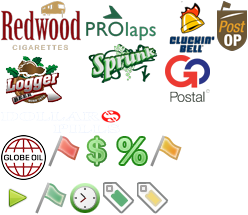
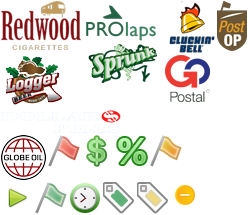
refactored old code, fixed open menu issue, added styling while on job

Changed region(s): [[0.7056, 0.8372, 0.7903, 0.9767]]

diff --git a/nui/local.html b/nui/local.html
@@ -1,0 +1,112 @@
+<html ng-app="app" ng-controller="mainController as main" ng-cloak>
+    <head>
+        <script src="https://code.jquery.com/jquery-2.2.4.min.js" integrity="sha256-BbhdlvQf/xTY9gja0Dq3HiwQF8LaCRTXxZKRutelT44=" crossorigin="anonymous"></script>
+        <script
+          src="https://code.jquery.com/jquery-3.3.1.js"
+          integrity="sha256-2Kok7MbOyxpgUVvAk/HJ2jigOSYS2auK4Pfzbm7uH60="
+          crossorigin="anonymous"></script>
+        <!-- <script src="nui://game/ui/jquery.js" type="text/javascript"></script> -->
+        <script src="./assets/js/angular.min.js" type="text/javascript"></script>
+        <script src="./assets/js/script.js?v=1.8" type="text/javascript"></script>
+        <link href="./assets/css/foundation.min.css" rel="stylesheet" type="text/css" />
+        <link href="./assets/css/style.css" rel="stylesheet" type="text/css" />
+        <meta http-equiv="content-type" content="text/html; charset=UTF-8">
+    </head>
+    <body style="background: transparent;">
+        <div class="dialog">
+            <div class="container">
+                <div class="menu">
+                    <h1>Freight Mobile</h1>
+                    <ul class="nav">
+                        <li ng-repeat="section in sections" ng-class="{'active': currentSection == $index}" ng-click="changeView($index, 0)">{{ section }}</li>
+                    </ul>
+                </div>
+                <div class="area">
+                    <div ng-show="currentSection == 0">
+                        <div class="row item collapse">
+                            <div class="large-12 columns">
+                                <div class="info">
+                                    <div class="trailer">
+                                        <div class="trip">
+                                            <span class="trailerType"><span class="orange">A place</span></span>
+                                            <span class="destination">From here ↝ To there</span>
+                                        </div>
+                                        <div class="icon logo postop"></div>
+                                    </div>
+                                    <div class="offer">
+                                        <div class="text">
+                                            <span class="expected">Weight: <b>12,235 lb</b></span><br />
+                                            <span class="expires">About a mile away</span>
+                                        </div>
+                                        <div class="icon play" aria-hidden="true" ng-click="startJob(job.id)"></div>
+                                        <div class="offerAmount"><span class="orange" id="payout">$3,564</span><br />$754/mi</div>
+                                    </div>
+                                </div>
+                            </div>
+                        </div>
+                        <div class="row item collapse">
+                            <div class="large-12 columns">
+                                <div class="info">
+                                    <div class="trailer">
+                                        <div class="trip">
+                                            <span class="trailerType"><span class="orange">A place</span></span>
+                                            <span class="destination">From here ↝ To there</span>
+                                        </div>
+                                        <div class="icon logo postop"></div>
+                                    </div>
+                                    <div class="offer">
+                                        <div class="text">
+                                            <span class="expected">Weight: <b>12,235 lb</b></span><br />
+                                            <span class="expires">About a mile away</span>
+                                        </div>
+                                        <div class="icon warning" aria-hidden="true" ng-click="startJob(job.id)"><span class="tooltip">You're already on a job</span></div>
+                                        <div class="offerAmount"><span class="orange" id="payout">$3,564</span><br />$754/mi</div>
+                                    </div>
+                                </div>
+                            </div>
+                        </div>
+                        <div class="row item collapse">
+                            <div class="large-12 columns">
+                                <div class="info">
+                                    <div class="trailer">
+                                        <div class="trip">
+                                            <span class="trailerType"><span class="orange">A place</span></span>
+                                            <span class="destination">From here ↝ To there</span>
+                                        </div>
+                                        <div class="icon logo postop"></div>
+                                    </div>
+                                    <div class="offer">
+                                        <div class="text">
+                                            <span class="expected">Weight: <b>12,235 lb</b></span><br />
+                                            <span class="expires">About a mile away</span>
+                                        </div>
+                                        <div class="icon warning" aria-hidden="true" ng-click="startJob(job.id)"></div>
+                                        <div class="offerAmount"><span class="orange" id="payout">$3,564</span><br />$754/mi</div>
+                                    </div>
+                                </div>
+                            </div>
+                        </div>
+                        <div class="paging">
+                            <ul>
+                                <li ng-repeat="i in [] | range: getJobsPageCount()" ng-class="{'active': currentPage == i}" ng-click="changeView(currentSection, i)">&bull;</li>
+                            </ul>
+                        </div>
+                    </div>
+                    <div ng-show="currentSection == 1">
+                        Deliveries
+                    </div>
+                    <div ng-show="currentSection == 2">
+                        Auctions Coming Soon
+                    </div>
+                </div>
+                <div class="bottom-nav">
+                    <ul>
+                        <li><div ng-click="back()" ng-class="{'disabled': noHistory}" class="navcon arrow"></div></li>
+                        <li><div ng-click="home()" ng-class="{'disabled': currentSection == 0}" class="navcon circle"></div></li>
+                        <li><div ng-click="close()" class="navcon box"></div></li>
+                    </ul>
+                </div>
+            </div>
+        </div>
+    </body>
+</html>

diff --git a/nui/assets/css/style.css b/nui/assets/css/style.css
@@ -76,7 +76,7 @@ h1 {
 }
 
 .nav {
-    font-size: 1.2em;
+    font-size: 1.265em;
 }
 
 .nav li {
@@ -208,9 +208,51 @@ h1 {
     background: url('../images/nav.png');
 }
 
+.tooltip {
+    position: relative;
+    display: block;
+    opacity: 0;
+    top: -71px;
+    left: -72px;
+    padding: 7px 10px;
+    width: 111px;
+    background-color: #1e1e1e;
+    font-size: 0.85em;
+    text-align: center;
+    transition: all 0.35s ease;
+}
+
+.tooltip:after {
+    top: 100%;
+    left: 81%;
+    border: solid transparent;
+    content: " ";
+    height: 0;
+    width: 0;
+    position: absolute;
+    pointer-events: none;
+    border-color: rgba(136, 183, 213, 0);
+    border-top-color: #1e1e1e;
+    border-width: 15px;
+    margin-left: -17px;
+}
+
+.warning:hover .tooltip {
+    opacity: 1;
+}
+
+.arrow, .circle {
+    transition: all 0.4s ease;
+}
+
+.play, .warning {
+    float: right;
+    margin-top: 10px;
+    margin-right: 5px;
+}
+
 .arrow {
     background-position: -1px -1px;
-    transition: all 0.4s ease;
 }
 
 .circle {
@@ -234,11 +276,6 @@ h1 {
     width: 32px;
     height: 32px;
     background-position: -1px -182px;
-    float: right;
-    margin-top: 10px;
-    margin-right: 5px;
-    color: #66CC99;
-    font-size: 1.4em;
 }
 
 .cluckinbell {
@@ -348,6 +385,12 @@ h1 {
     width: 32px;
     height: 32px;
     background-position: -137px -182px;
+}
+
+.warning {
+    width: 32px;
+    height: 32px;
+    background-position: -169px -179px;
 }
 
 .alert {

diff --git a/nui/index.html b/nui/index.html
@@ -1,6 +1,5 @@
 <html ng-app="app" ng-controller="mainController as main" ng-show="menu" ng-cloak>
     <head>
-        <script src="https://code.jquery.com/jquery-2.2.4.min.js" integrity="sha256-BbhdlvQf/xTY9gja0Dq3HiwQF8LaCRTXxZKRutelT44=" crossorigin="anonymous"></script>
         <script src="nui://game/ui/jquery.js" type="text/javascript"></script>
         <script src="./assets/js/angular.min.js" type="text/javascript"></script>
         <script src="./assets/js/script.js?v=1.8" type="text/javascript"></script>
@@ -34,7 +33,7 @@
                                             <span class="expected">Weight: <b>{{ job.pickup_w | number: 0 }} lb</b></span><br />
                                             <span class="expires">{{ setAdjuncts(job.milesAway) }}</span>
                                         </div>
-                                        <div class="icon play" aria-hidden="true" ng-click="startJob(job.id)"></div>
+                                        <div class="icon" ng-class={'play': onjob == false, 'warning': onjob} aria-hidden="true" ng-click="startJob(job.id)"><span class="tooltip" ng-show="onjob">You're already on a job</span></div>
                                         <div class="offerAmount"><span class="orange" id="payout">${{ job.payout | number: 0 }}</span><br />${{ job.payout / job.milesTravel }}/mi</div>
                                     </div>
                                 </div>

diff --git a/nui/assets/js/script.js b/nui/assets/js/script.js
@@ -5,6 +5,7 @@ angular.module('app', [])
     $rootScope.menu = false;
     $rootScope.sections = ['Market', 'Deliveries', 'Auctions']
     $rootScope.jobs = [];
+    $rootScope.onjob = false;
     $scope.currentSection = 0;
     $scope.currentPage = 0;
     $scope.jobsPerPage = 3;
@@ -82,10 +83,16 @@ angular.module('app', [])
 })
 .service('receiver', function($rootScope) {
     $rootScope.$on('update', function(event, args) {
-        var enabled = args.enable ? true : false;
-        $rootScope.menu = enabled;
-        if(enabled) {
-            $rootScope.jobs = angular.fromJson(args.jobs);
+        switch (args.type) {
+            case "enable":
+                $rootScope.menu = args.data ? true : false;
+                break;
+            case "jobs":
+                $rootScope.jobs = angular.fromJson(args.data);
+                break;
+            case "job_status":
+                $rootScope.onjob = args.data ? true : false;
+                break;
         }
         $rootScope.$apply();
     });
